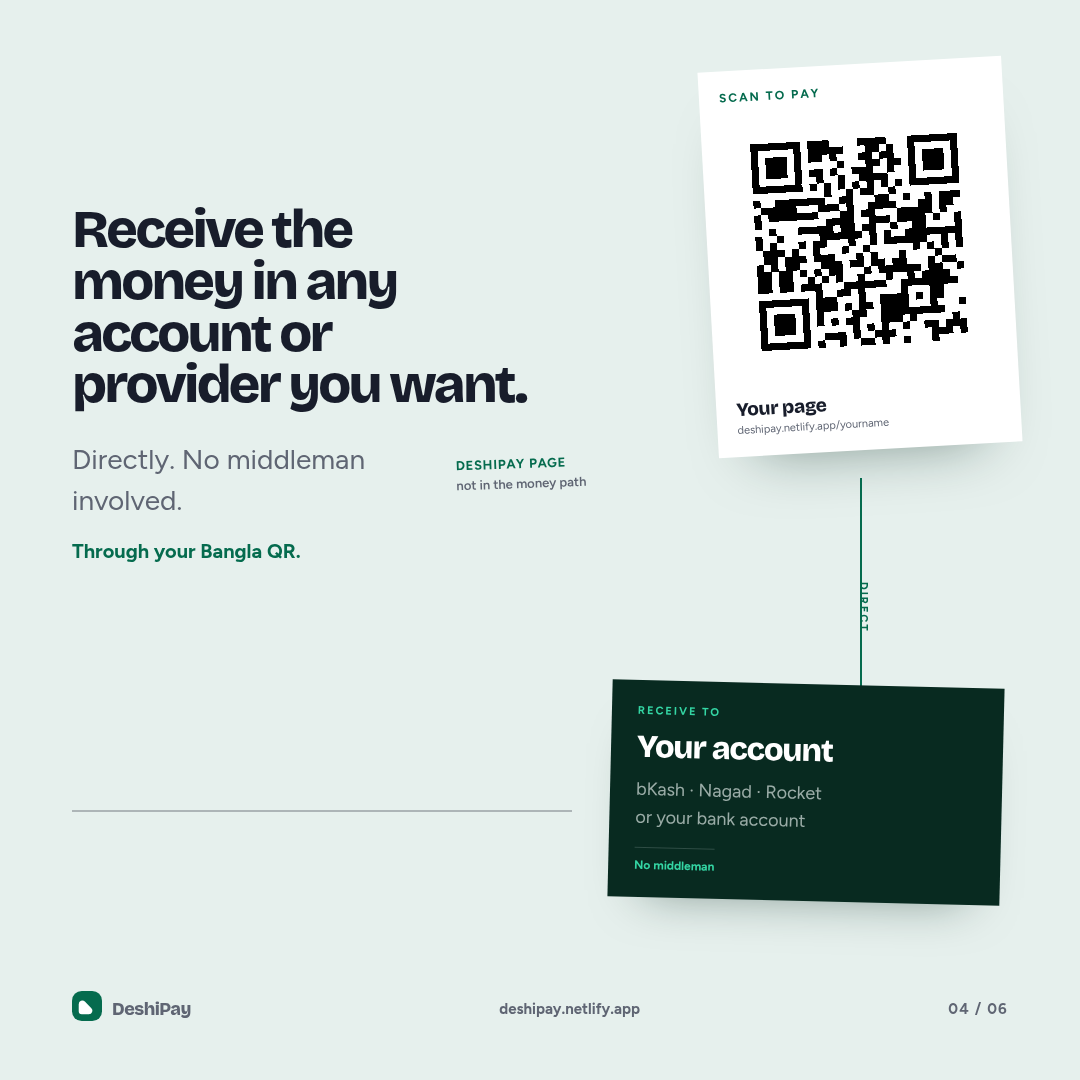
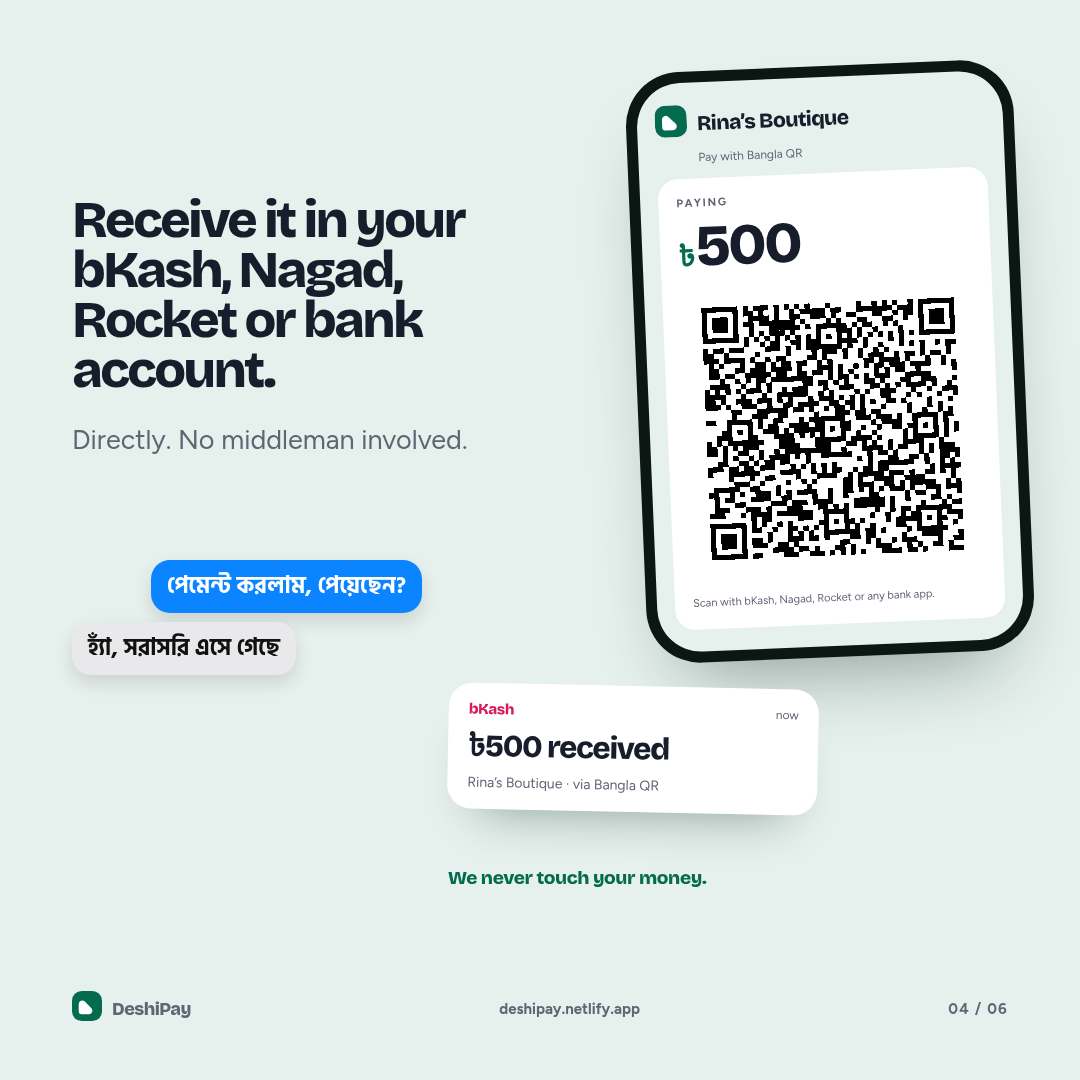
design(page4): show Rina's Boutique, received notification and chat proof
Rebuild page 4 around a real merchant example: a phone QR page for
Rina's Boutique, a bKash-style ৳500 received notification, a Bangla chat
exchange, and the 'We never touch your money' line. Drop the abstract
account card and DIRECT label; name the providers in the headline.

Changed region(s): [[0.3972, 0.0306, 0.9778, 0.8556], [0.0611, 0.1833, 0.4889, 0.6111], [0.4278, 0.4278, 0.55, 0.4583]]

diff --git a/promotionals/social/source/social.html b/promotionals/social/source/social.html
@@ -78,28 +78,33 @@
   #s3 .hairline { right:auto; width:510px; }
 
   .s3-ghost { position:absolute; z-index:1; left:-42px; bottom:-128px; color:rgba(230,240,237,.045); font:800 450px/1 "Hind Siliguri","Noto Sans Bengali",sans-serif; letter-spacing:-.08em; pointer-events:none; }
-  /* 04 phone crop */
-  #s4 .headline { font-size:54px; margin-top:132px; max-width:455px; }
-  #s4 .body { margin-top:28px; max-width:400px; font-size:28px; }
-  .s4-small { position:relative; z-index:4; margin:18px 0 0; color:var(--green); font-size:20px; font-weight:700; }
-  #s4 .hairline { right:auto; width:500px; }
-  .s4-visual { position:absolute; z-index:4; right:34px; top:64px; width:590px; height:930px; }
-  .qr-poster { position:absolute; right:34px; top:0; width:304px; padding:20px; background:#fff; transform:rotate(-3.2deg); box-shadow:0 34px 60px -40px rgba(8,42,32,.5); }
-  .qr-kicker { display:block; color:var(--green); font:800 12px Figtree,sans-serif; letter-spacing:.17em; margin-bottom:12px; }
-  .qr-poster .qrbox { border-radius:0; }
-  .qr-meta { display:flex; flex-direction:column; gap:3px; margin-top:13px; }
-  .qr-meta b { font:800 19px "Bricolage Grotesque",Arial,sans-serif; letter-spacing:-.02em; }
-  .qr-meta span { color:var(--muted); font-size:11px; }
-  .page-tag { position:absolute; left:0; top:390px; width:250px; color:var(--green); font:800 13px Figtree,sans-serif; letter-spacing:.06em; text-transform:uppercase; transform:rotate(-2deg); }
-  .page-tag span { display:block; margin-top:5px; color:var(--muted); font-weight:600; letter-spacing:0; text-transform:none; font-size:13px; }
-  .direct-rail { position:absolute; right:184px; top:414px; height:252px; width:2px; background:var(--green); }
-  .direct-rail:after { content:""; position:absolute; left:-5px; bottom:-2px; width:0; height:0; border-left:6px solid transparent; border-right:6px solid transparent; border-top:9px solid var(--green); }
-  .direct-rail span { position:absolute; left:10px; top:104px; color:var(--green); font:800 11px Figtree,sans-serif; letter-spacing:.18em; white-space:nowrap; transform:rotate(90deg); transform-origin:left top; }
-  .account-card { position:absolute; right:44px; top:620px; width:392px; padding:24px 26px; background:var(--dark); color:#fff; transform:rotate(1.4deg); box-shadow:0 28px 50px -35px rgba(8,42,32,.5); }
-  .acct-label { display:block; color:var(--bright); font:800 11px Figtree,sans-serif; letter-spacing:.18em; }
-  .account-card b { display:block; margin-top:10px; font:800 32px "Bricolage Grotesque",Arial,sans-serif; letter-spacing:-.035em; }
-  .account-card p { margin:10px 0 0; color:rgba(230,240,237,.66); font-size:18px; line-height:1.55; }
-  .acct-note { display:inline-block; margin-top:15px; padding-top:10px; border-top:1px solid rgba(230,240,237,.18); color:var(--bright); font:700 12px Figtree,sans-serif; }
+  /* 04 direct receipt */
+  #s4 .headline { font-size:52px; margin-top:124px; max-width:470px; }
+  #s4 .body { margin-top:24px; max-width:420px; font-size:27px; }
+  #s4 .hairline { display:none; }
+  .s4-visual { position:absolute; z-index:4; right:22px; top:66px; width:610px; height:930px; }
+  .s4-device { position:absolute; right:34px; top:0; width:388px; padding:11px; border-radius:54px; background:#0B1712; transform:rotate(-2.4deg); box-shadow:0 44px 80px -38px rgba(8,42,32,.45); }
+  .s4-screen { border-radius:44px; background:var(--mint); padding:22px 18px; }
+  .shop-head { display:flex; align-items:center; gap:10px; color:var(--ink); font:800 21px "Bricolage Grotesque",Arial,sans-serif; letter-spacing:-.03em; }
+  .shop-head .mark { width:32px; height:32px; flex:none; }
+  .shop-sub { margin:8px 0 0 42px; color:var(--muted); font-size:12px; }
+  .pay-card { background:#fff; border-radius:20px; padding:18px; margin-top:14px; color:var(--ink); }
+  .pay-label { display:block; color:var(--muted); font:800 11px Figtree,sans-serif; letter-spacing:.16em; }
+  .pay-amount { display:flex; align-items:baseline; gap:3px; margin:8px 0 12px; font:800 58px "Bricolage Grotesque",Arial,sans-serif; letter-spacing:-.05em; line-height:1; }
+  .pay-amount span { color:var(--green); font-size:29px; }
+  .s4-device .qrbox { border-radius:0; }
+  .pay-note { margin:10px 0 0; color:var(--muted); font-size:11px; line-height:1.45; }
+  .notif { position:absolute; left:0; top:620px; width:370px; padding:17px 20px 18px; background:#fff; border-radius:24px; box-shadow:0 30px 50px -32px rgba(8,42,32,.45); transform:rotate(1.2deg); }
+  .notif-top { display:flex; align-items:center; justify-content:space-between; }
+  .notif-top b { color:#D6195B; font:800 15px "Bricolage Grotesque",Arial,sans-serif; letter-spacing:-.02em; }
+  .notif-top span { color:var(--muted); font-size:12px; }
+  .notif-amount { margin-top:9px; color:var(--ink); font:800 31px "Bricolage Grotesque",Arial,sans-serif; letter-spacing:-.045em; }
+  .notif p { margin:5px 0 0; color:var(--muted); font-size:14px; }
+  .s4-never { position:absolute; left:0; top:800px; color:var(--green); font:800 19px "Bricolage Grotesque",Arial,sans-serif; letter-spacing:-.02em; }
+  .s4-chat { position:absolute; z-index:4; left:72px; top:560px; width:350px; }
+  .s4-msg { width:max-content; max-width:100%; margin:0; padding:11px 16px; border-radius:19px; font-family:"Hind Siliguri","Noto Sans Bengali",sans-serif; font-weight:700; font-size:23px; line-height:1.35; box-shadow:0 8px 18px rgba(0,0,0,.12); }
+  .s4-msg.ask { margin-left:auto; background:#0A84FF; color:#fff; }
+  .s4-msg.answer { margin-top:9px; background:#E9E9EB; color:#111; }
   /* 05 manifesto */
   #s5 .headline { font-size:96px; line-height:1.0; margin-top:118px; max-width:860px; }
   #s5 .body { margin-top:34px; max-width:700px; color:rgba(8,42,32,.72); font-size:31px; }
@@ -144,25 +149,30 @@
   </section>
 
   <section class="slide mint" id="s4">
-    <h1 class="headline">Receive the money in any account or provider you want.</h1>
+    <h1 class="headline">Receive it in your bKash, Nagad, Rocket or bank account.</h1>
     <p class="body">Directly. No middleman involved.</p>
-    <p class="s4-small">Through your Bangla QR.</p>
     <div class="s4-visual">
-      <div class="qr-poster">
-        <span class="qr-kicker">SCAN TO PAY</span>
-        <div class="qrbox" data-qr="site"></div>
-        <div class="qr-meta"><b>Your page</b><span>deshipay.netlify.app/yourname</span></div>
+      <div class="s4-device"><div class="s4-screen">
+        <div class="shop-head"><span data-mark></span><b>Rina’s Boutique</b></div>
+        <p class="shop-sub">Pay with Bangla QR</p>
+        <div class="pay-card">
+          <span class="pay-label">PAYING</span>
+          <div class="pay-amount"><span>৳</span>500</div>
+          <div class="qrbox" data-qr="pay"></div>
+          <p class="pay-note">Scan with bKash, Nagad, Rocket or any bank app.</p>
+        </div>
+      </div></div>
+      <div class="notif">
+        <div class="notif-top"><b>bKash</b><span>now</span></div>
+        <div class="notif-amount">৳500 received</div>
+        <p>Rina’s Boutique · via Bangla QR</p>
       </div>
-      <div class="page-tag">DeshiPay page <span>not in the money path</span></div>
-      <div class="direct-rail"><span>DIRECT</span></div>
-      <div class="account-card">
-        <span class="acct-label">RECEIVE TO</span>
-        <b>Your account</b>
-        <p>bKash · Nagad · Rocket<br>or your bank account</p>
-        <span class="acct-note">No middleman</span>
-      </div>
+      <div class="s4-never">We never touch your money.</div>
     </div>
-    <div class="hairline"></div>
+    <div class="s4-chat" lang="bn">
+      <p class="s4-msg ask">পেমেন্ট করলাম, পেয়েছেন?</p>
+      <p class="s4-msg answer">হ্যাঁ, সরাসরি এসে গেছে</p>
+    </div>
     <footer class="footer"><div class="brand"><span data-mark></span>DeshiPay</div><span class="mid">deshipay.netlify.app</span><span class="num">04 / 06</span></footer>
   </section>
 
